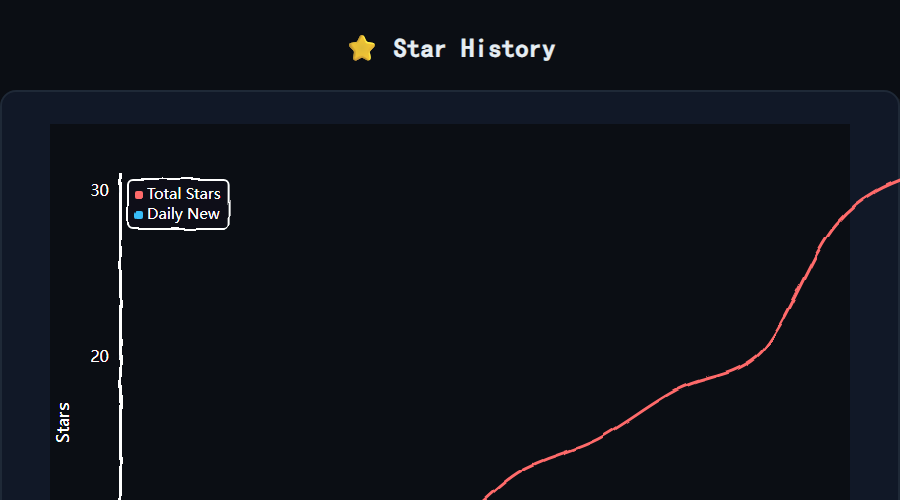
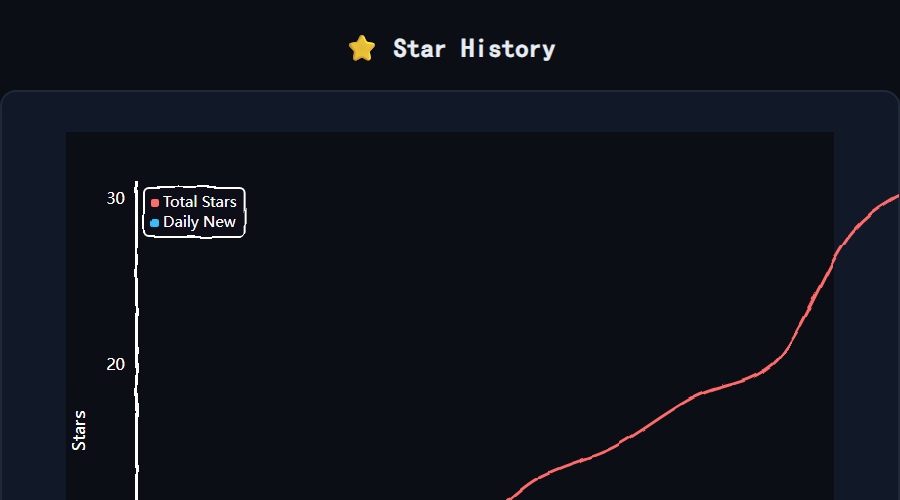
紧急修复：进一步扩大 Star History 图表与卡片的四周留白至 64px，确保手绘图表在窄视口下左右上下均完整可见，无裁切

Changed region(s): [[0.5289, 0.36, 1.0, 1.0], [0.0933, 0.33, 0.28, 1.0], [0.0622, 0.81, 0.0933, 0.9]]

diff --git a/docs/star-history.html b/docs/star-history.html
@@ -9,8 +9,8 @@
 @import url('"https://fonts.googleapis.com/css2?family=Patrick+Hand&display=swap"');
 :root{--bg:#0b0e14;--fg:#e6edf3;--muted:#9aa3b2;--border:#1f2937;--card:#111827}
 *{box-sizing:border-box}body{margin:0;font-family:"Patrick Hand",cursive;background:var(--bg);color:var(--fg);line-height:1.6}
-header{max-width:1050px;margin:0 auto;padding:28px 24px 0;text-align:center}h1{margin:0;font-size:26px;letter-spacing:0.02em}
-.card{max-width:1050px;margin:20px auto;padding:32px 48px 28px 48px;background:var(--card);border:2px solid var(--border);border-radius:16px;box-shadow:4px 4px 0 rgba(255,255,255,0.05);overflow:visible}
+header{max-width:1150px;margin:0 auto;padding:28px 24px 0;text-align:center}h1{margin:0;font-size:26px;letter-spacing:0.02em}
+.card{max-width:1150px;margin:20px auto;padding:40px 64px 32px 64px;background:var(--card);border:2px solid var(--border);border-radius:16px;box-shadow:4px 4px 0 rgba(255,255,255,0.05);overflow:visible}
 svg{width:100%!important;height:auto!important;display:block;overflow:visible}
 .stats{display:flex;gap:14px;flex-wrap:wrap;margin-top:18px;font-family:"Patrick Hand",cursive}
 .stat{flex:1 1 160px;background:var(--bg);border:2.5px solid var(--border);border-radius:14px;padding:14px;text-align:center;transform:rotate(-0.2deg);box-shadow:2px 2px 0 rgba(255,255,255,0.04)}
@@ -80,5 +80,6 @@ load().catch(e=>{ document.querySelector("#chart").outerHTML = "<p style=color:#
 </script>
 </body>
 </html>
+
 
 
